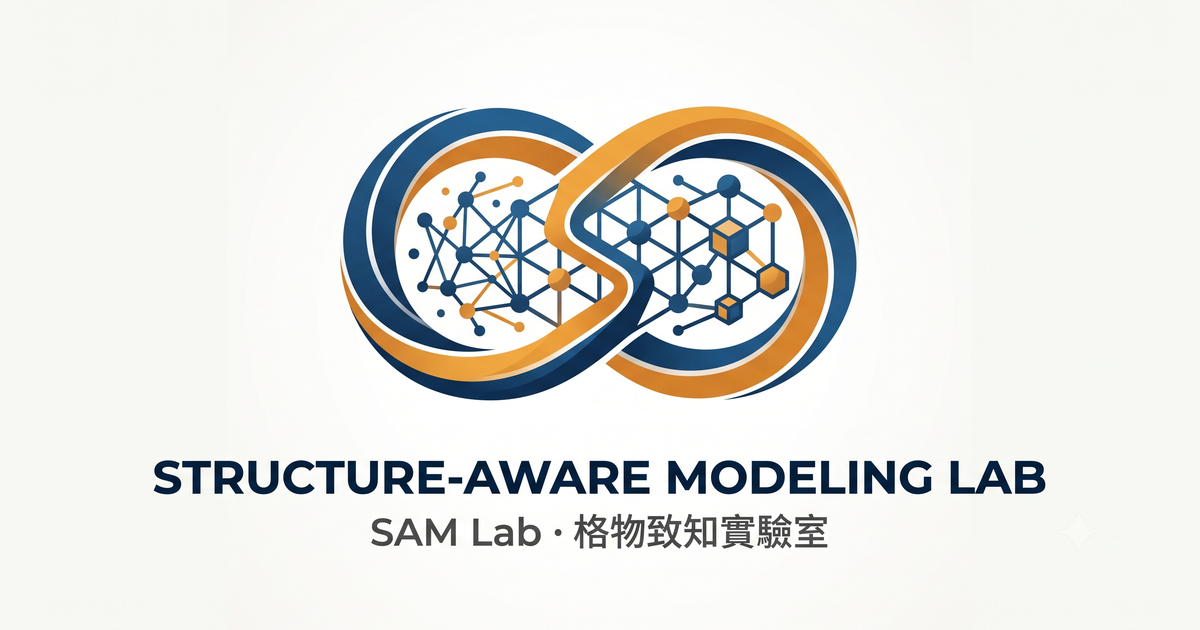
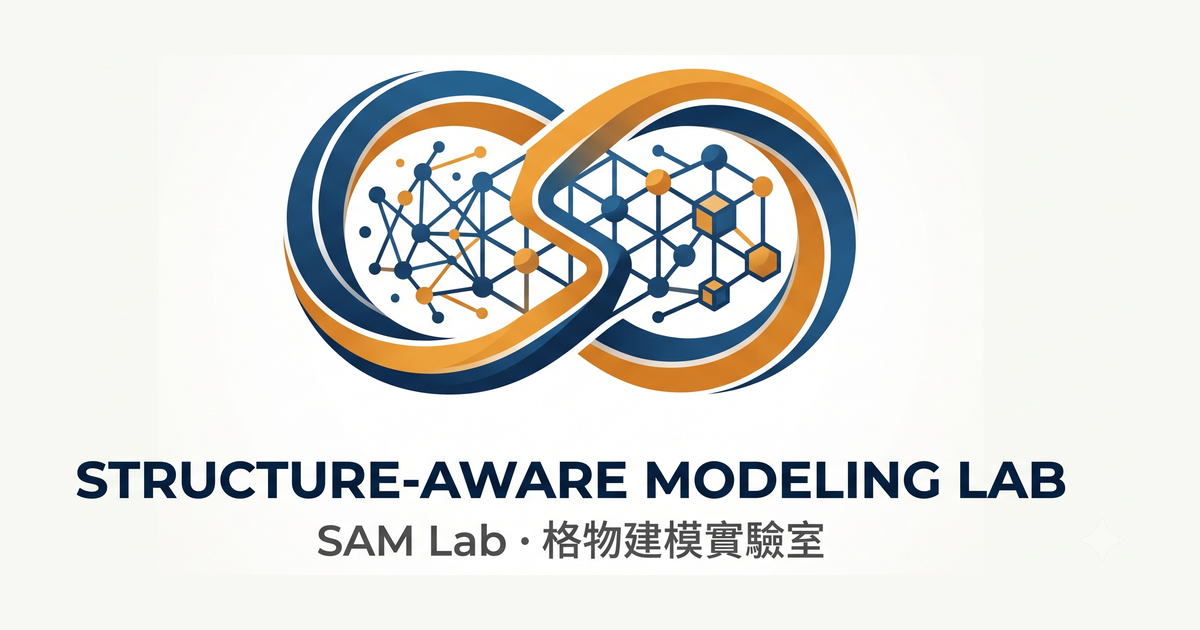
Change Lab Name

Changed region(s): [[0.2158, 0.0905, 0.74, 0.6333], [0.0617, 0.7238, 0.8942, 0.9048]]

diff --git a/site/src/lib/handbook.ts b/site/src/lib/handbook.ts
@@ -145,15 +145,15 @@ export const roleCards: RoleCard[] = [
 // prose (description / philosophy / pillar text) is bilingual { en, zh }.
 export const labInfo = {
   name: 'Structure-Aware Modeling Lab',
-  subtitle: 'SAM Lab · 格物致知實驗室',
+  subtitle: 'SAM Lab · 格物建模實驗室',
   nameGloss: {
     en: 'Uncover the structure of things to expand the bounds of insight.',
-    zh: '窮究事物之結構，拓展無盡之理解。',
+    zh: '格物致知 ── 窮究事物之結構，拓展無盡之理解。',
   },
   eyebrow: { en: 'Lab', zh: '研究實驗室' },
   description: {
     en: 'Structure-Aware Modeling Lab (SAM Lab) leverages the inherent structure of data and problems to build AI methods with rigorous mathematical foundations.  We bridge mathematical theory, computational intuition, and implementable methods to study geometric deep learning, generative modeling, sampling, test-time guidance, and scientific applications. Scientific discovery serves as a central proving ground for our work, without defining its full boundary.',
-    zh: '格物致知實驗室（SAM Lab）致力於利用數據與問題本身的結構，建立具數學基礎的 AI 方法。我們串接直覺、數學與工程，研究 geometric deep learning、generative modeling、sampling、test-time guidance 與 scientific applications。我們將科學上的應用場景視為我們工作的核心試驗場，但不限於此應用。',
+    zh: '格物建模實驗室（SAM Lab）致力於利用數據與問題本身的結構，建立具數學基礎的 AI 方法。我們串接直覺、數學與工程，研究 geometric deep learning、generative modeling、sampling、test-time guidance 與 scientific applications。我們將科學上的應用場景視為我們工作的核心試驗場，但不限於此應用。',
   },
   philosophyHeading: { en: 'Philosophy', zh: '理念' },
   philosophy: {
